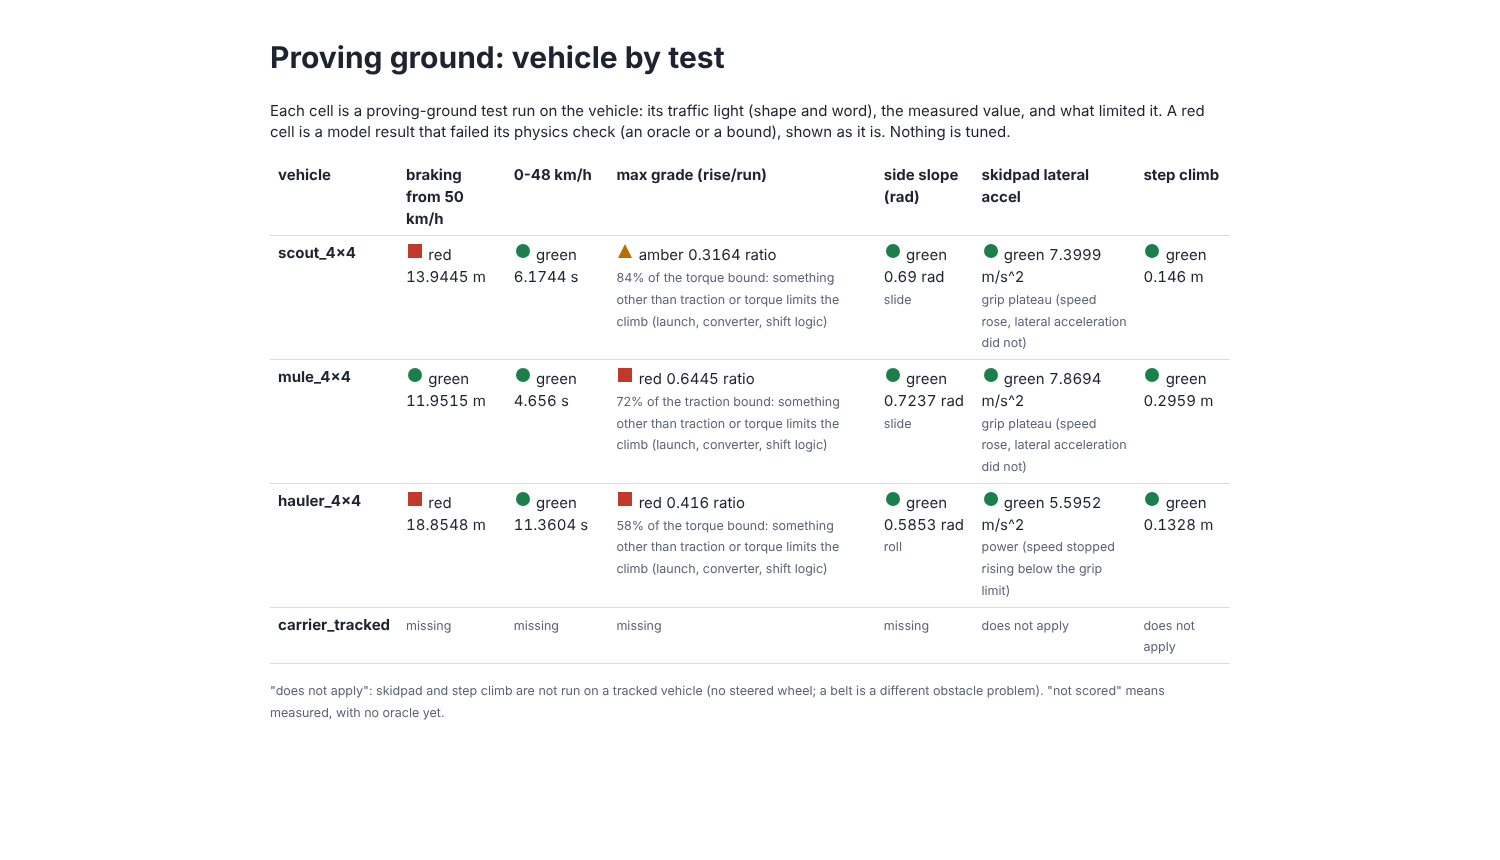
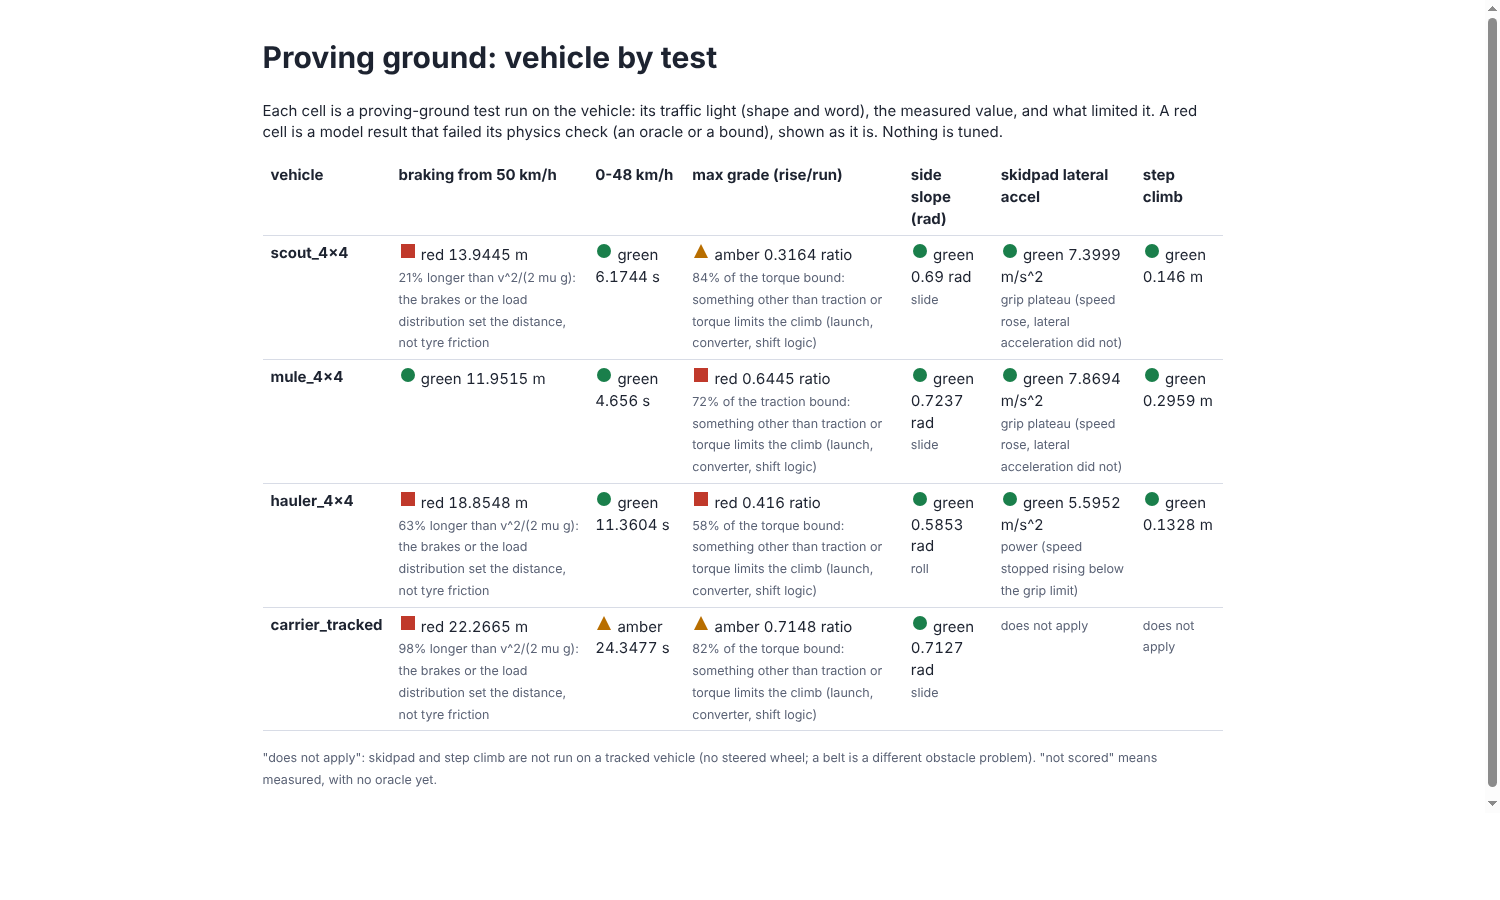
VALIDATION: merge integration (carrier runs), regenerate capability snapshots and grid, explain a braking result far beyond friction
Claude-Session: https://claude.ai/code/session_01TBBxTxyT1moXwGWjRx6YWx

diff --git a/crates/w5k_validate/src/oracle.rs b/crates/w5k_validate/src/oracle.rs
@@ -78,9 +78,17 @@ pub fn score_braking(r: &ProvingResult) -> Result<TestScore, String> {
     let (v, mu) = (r.inputs["speed_m_s"], r.inputs["mu"]);
     let expected = v * v / (2.0 * mu * G);
     let d = r.measured["stop_distance_m"];
-    let note =
-        if d < expected { "stopped shorter than friction allows: the tyre force exceeds its own peak" } else { "" };
-    let mut checks = vec![check("stop_distance_m", d, expected, light_above_floor(d / expected), note)];
+    let note = if d < expected {
+        "stopped shorter than friction allows: the tyre force exceeds its own peak".to_string()
+    } else if d > expected * (1.0 + ORACLE_AMBER) {
+        format!(
+            "{:.0}% longer than v^2/(2 mu g): the brakes or the load distribution set the distance, not tyre friction",
+            PERCENT_OF * (d / expected - 1.0)
+        )
+    } else {
+        String::new()
+    };
+    let mut checks = vec![check("stop_distance_m", d, expected, light_above_floor(d / expected), &note)];
     let a = r.measured["peak_decel_g"];
     let cap = mu * (1.0 + BOUND_SLACK);
     checks.push(check(
@@ -340,7 +348,13 @@ mod tests {
         let oracle = 13.89_f64 * 13.89 / (2.0 * 0.8 * G);
         assert_eq!(score_braking(&braking(oracle * 1.05, 0.76)).expect("score").light, Light::Green);
         assert_eq!(score_braking(&braking(oracle * 1.15, 0.7)).expect("score").light, Light::Amber);
-        assert_eq!(score_braking(&braking(oracle * 1.5, 0.5)).expect("score").light, Light::Red);
+        let slow = score_braking(&braking(oracle * 1.5, 0.5)).expect("score");
+        assert_eq!(slow.light, Light::Red);
+        assert!(
+            slow.checks[0].note.contains("50% longer") && slow.checks[0].note.contains("brakes"),
+            "{}",
+            slow.checks[0].note
+        );
     }
 
     #[test]
